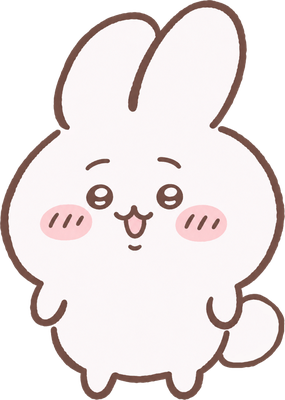
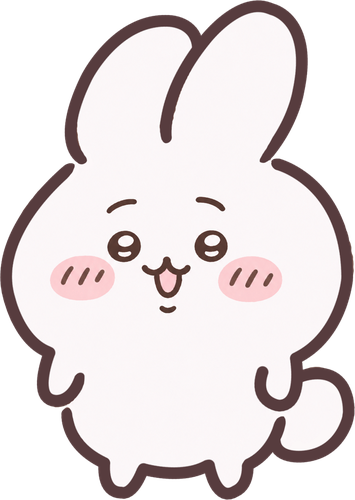
3.5.11: 말랑 친구들 — 선을 진하게 다시 그린 말랑이로 교체(시계·알람·달력·플래너·스티커), 알람 빼꼼 말랑이 크게, 스티커에서 소풍·토벌창·기본 말랑이 뺌
Claude-Session: https://claude.ai/code/session_019FAXvPvzQXgEKLusynfAwP

diff --git a/desktop/src/renderer/planner.js b/desktop/src/renderer/planner.js
@@ -8,12 +8,12 @@
   const COLORS = ['peach', 'mint', 'sky', 'lav', 'lemon', 'pink', 'stripe', 'dot'];
   const BASE_ROWS = 8;
   // 말랑 친구들 스킨: 직접 그린 친구들·소품 그림 스티커 ('ck:이름' 으로 저장)
-  const CK_CHARS = ['picnic', 'mal2', 'mallang', 'bear', 'cat', 'rabbit', 'momo', 'pink', 'trio', 'duo'];
-  const CK_ITEMS = ['pbear', 'pfish', 'pstar', 'onigiri', 'dango', 'taiyaki', 'strawb', 'mochi', 'rice', 'corndog', 'bun1', 'candy', 'drink', 'heart', 'flower', 'clover', 'spark', 'starface', 'music', 'balloon', 'gift1', 'gift2', 'medal', 'coin', 'ticket', 'note', 'pencil', 'eraser', 'camera', 'lantern', 'tent', 'pouch', 'talk', 'ex', 'q', 'exq', 'excl', 'drops', 'puff', 'swirl', 'zzz', 'starwand', 'wandp', 'wandb', 'stick', 'cloud'];
+  const CK_CHARS = ['mal2', 'bear', 'cat', 'rabbit', 'momo', 'pink', 'trio', 'duo'];
+  const CK_ITEMS = ['pbear', 'pfish', 'pstar', 'onigiri', 'dango', 'taiyaki', 'strawb', 'mochi', 'rice', 'corndog', 'bun1', 'candy', 'drink', 'heart', 'flower', 'clover', 'spark', 'starface', 'music', 'balloon', 'gift1', 'gift2', 'medal', 'coin', 'ticket', 'note', 'pencil', 'eraser', 'camera', 'lantern', 'tent', 'pouch', 'talk', 'ex', 'q', 'exq', 'excl', 'drops', 'puff', 'swirl', 'zzz', 'starwand', 'cloud'];
   const ckOn = () => document.documentElement.classList.contains('sk-friends');
   const isCk = (e) => /^ck:[a-z0-9]+$/.test(e);
   const ckImg = (e) => '<img src="skin/ck-' + e.slice(3) + '.png" alt="" draggable="false">';
-  const ckCls = (e) => (CK_CHARS.includes(e.slice(3)) ? (/^ck:(trio|duo|picnic)$/.test(e) ? ' ckSk ckWide' : ' ckSk ckBig') : ' ckSk');
+  const ckCls = (e) => (CK_CHARS.includes(e.slice(3)) || /^ck:(picnic|mallang)$/.test(e) ? (/^ck:(trio|duo|picnic)$/.test(e) ? ' ckSk ckWide' : ' ckSk ckBig' + (e === 'ck:mal2' ? ' ckMal' : '')) : ' ckSk');
   const EMOJI = {
     '표정': '😀 😊 🥰 😍 😎 🤓 🥳 😴 🤯 😭 😤 🤔 😇 🫠 😵💫 🙃 😋 🤗 😌 🥲 😱 🫡 🤩 😮💨',
     '하트': '❤ 🧡 💛 💚 💙 💜 🩷 🤍 🖤 💖 💗 💝 ✨ ⭐ 🌟 💫 ⚡ 🔥 💯 🎵',

diff --git a/desktop/src/renderer/skins.css b/desktop/src/renderer/skins.css
@@ -454,7 +454,7 @@ html.sk-friends .wrap .memo { border-radius: 16px; background: #FFF0F3; box-shad
 html.sk-friends .wrap .btns button { border-radius: 999px; border: 2px solid var(--ck-line); background: #fff; color: var(--ck-ink); box-shadow: none; }
 html.sk-friends .wrap .btns .ok { background: var(--ck-pink); border-color: var(--ck-ink); }
 /* 말랑이는 제목줄 뒤에서 빼꼼 (손·발은 창 뒤에 숨음) */
-html.sk-friends .art.gx { left: auto; right: 34px; top: -72px; width: 72px; height: 100px; z-index: 4; }
+html.sk-friends .art.gx { left: auto; right: 26px; top: -90px; width: 92px; height: 130px; z-index: 4; }
 html.sk-friends .wrap .deco { z-index: 2; }
 /* 말랑 친구들: 목록바 배경지 (직접 그린 그림) — 투명도 조절바를 따름 */
 html.sk-friends .panel { isolation: isolate; }

diff --git a/desktop/src/renderer/planner.css b/desktop/src/renderer/planner.css
@@ -256,3 +256,4 @@ html.draw .dh .hol { background: transparent; box-shadow: inset 0 0 0 1.4px curr
 .pop .emos.ckBigs button { height: 60px; }
 .pop .emos.ckBigs button img { max-height: 54px; max-width: 58px; }
 .pop .cats .ckCat { font-weight: 700; }
+.sk.ckSk.ckMal img { height: 70px; }
